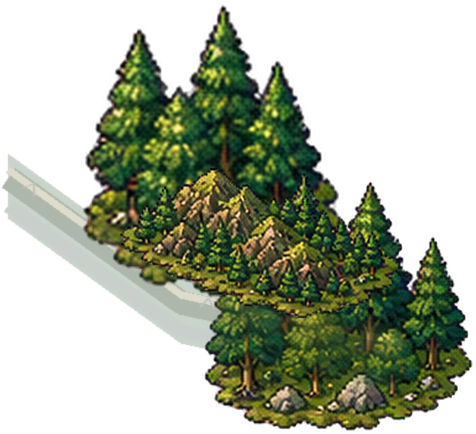
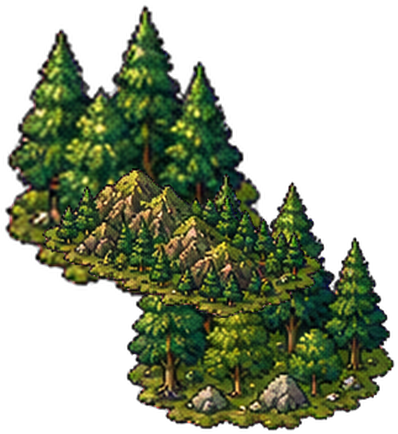
Disable noisy land detail patches

diff --git a/map_pipeline/compose_map.py b/map_pipeline/compose_map.py
@@ -40,6 +40,7 @@ NAMED_WATER_SHALLOW = (71, 126, 129, 58)
 NAMED_WATER_SHORE = (66, 78, 47, 34)
 NAMED_WATER_OUTLINE = (39, 72, 72, 92)
 NAMED_WATER_HIGHLIGHT = (139, 184, 181, 54)
+MAJOR_NAMED_WATER_BODY_IDS = {"bodensee", "mueritz", "chiemsee"}
 FOREST_SPRITE_CACHE = {}
 GLYPH_CACHE = {}
 FONT_CACHE = {}
@@ -48,17 +49,26 @@ FOREST_MASS_MIN_WIDTH = 170
 FOREST_CLUSTER_MIN_SOURCE_WIDTH = 96
 RELIEF_TREE_CLUSTER_MIN_WIDTH = 146
 LAND_DETAIL_VISUAL_SCALE = 0.68
-LAND_DETAIL_ALPHA_SCALE = 0.36
+LAND_DETAIL_ALPHA_SCALE = 0.0
 LAND_DETAIL_TINT_STRENGTH = 0.34
 GROUND_TEXTURE_LON_STEP = 0.74
 GROUND_TEXTURE_LAT_STEP = 0.70
-INTEGRATED_LAND_PATTERN_LON_STEP = 0.92
-INTEGRATED_LAND_PATTERN_LAT_STEP = 0.84
-INTEGRATED_LAND_PATTERN_ALPHA_SCALE = 0.20
-INTEGRATED_LAND_PATTERN_MIN_SIZE = 30
+INTEGRATED_LAND_PATTERN_LON_STEP = 1.10
+INTEGRATED_LAND_PATTERN_LAT_STEP = 1.00
+INTEGRATED_LAND_PATTERN_ALPHA_SCALE = 0.14
+INTEGRATED_LAND_PATTERN_MIN_SIZE = 36
+RELIEF_SOFT_REGION_ALPHA_SCALE = 0.0
+RIDGE_BAND_ALPHA_SCALE = 0.0
 ATLAS_ROUTE_DOT_SPACING_SCALE = 1.75
 ATLAS_ROUTE_DOT_MIN_RADIUS = 4
 DEFAULT_ATLAS_ROUTES_ENABLED = False
+DEFAULT_BASE_LAND_PATCHES_ENABLED = False
+DEFAULT_INTEGRATED_LAND_PATTERN_ENABLED = False
+DEFAULT_LAND_DETAIL_PATCHES_ENABLED = False
+DEFAULT_MARSH_PATCHES_ENABLED = False
+DEFAULT_MINOR_NAMED_WATER_BODIES_ENABLED = False
+DEFAULT_NATURAL_EARTH_LAKES_ENABLED = False
+DEFAULT_RIDGE_BAND_OVERLAYS_ENABLED = False
 EXPORT_MASSIF_SOURCE_LAYERS = True
 MASSIF_SOURCE_MANIFEST = []
 
@@ -1326,35 +1336,36 @@ def _draw_base_land_texture(canvas, land_mask, germany_mask):
     draw = ImageDraw.Draw(layer)
     width, height = canvas.size
 
-    for y in range(0, height, 96 * RENDER_SCALE):
-        for x in range(0, width, 112 * RENDER_SCALE):
-            seed = _stable_hash("land_patch", x // RENDER_SCALE, y // RENDER_SCALE)
-            patch_w = (74 + seed % 58) * RENDER_SCALE
-            patch_h = (30 + (seed >> 6) % 34) * RENDER_SCALE
-            jitter_x = ((seed >> 12) % 43 - 21) * RENDER_SCALE
-            jitter_y = ((seed >> 18) % 37 - 18) * RENDER_SCALE
-            if seed % 4 == 0:
-                color = (126, 142, 73, 12)
-            elif seed % 4 == 1:
-                color = (174, 160, 90, 8)
-            elif seed % 4 == 2:
-                color = (82, 123, 66, 9)
-            else:
-                color = (105, 93, 55, 7)
-            draw.ellipse(
-                (
-                    x + jitter_x - patch_w // 2,
-                    y + jitter_y - patch_h // 2,
-                    x + jitter_x + patch_w // 2,
-                    y + jitter_y + patch_h // 2,
-                ),
-                fill=color,
-            )
+    if DEFAULT_BASE_LAND_PATCHES_ENABLED:
+        for y in range(0, height, 96 * RENDER_SCALE):
+            for x in range(0, width, 112 * RENDER_SCALE):
+                seed = _stable_hash("land_patch", x // RENDER_SCALE, y // RENDER_SCALE)
+                patch_w = (74 + seed % 58) * RENDER_SCALE
+                patch_h = (30 + (seed >> 6) % 34) * RENDER_SCALE
+                jitter_x = ((seed >> 12) % 43 - 21) * RENDER_SCALE
+                jitter_y = ((seed >> 18) % 37 - 18) * RENDER_SCALE
+                if seed % 4 == 0:
+                    color = (126, 142, 73, 8)
+                elif seed % 4 == 1:
+                    color = (174, 160, 90, 5)
+                elif seed % 4 == 2:
+                    color = (82, 123, 66, 6)
+                else:
+                    color = (105, 93, 55, 4)
+                draw.ellipse(
+                    (
+                        x + jitter_x - patch_w // 2,
+                        y + jitter_y - patch_h // 2,
+                        x + jitter_x + patch_w // 2,
+                        y + jitter_y + patch_h // 2,
+                    ),
+                    fill=color,
+                )
 
     for y in range(0, height, 42 * RENDER_SCALE):
         for x in range(0, width, 46 * RENDER_SCALE):
             seed = _stable_hash("land_texture", x // RENDER_SCALE, y // RENDER_SCALE)
-            alpha = 4 + seed % 5
+            alpha = 3 + seed % 3
             if seed % 5 == 0:
                 color = (219, 203, 132, alpha)
             elif seed % 5 in (1, 2):
@@ -1400,7 +1411,7 @@ def _draw_base_land_texture(canvas, land_mask, germany_mask):
                 (x, y, x + 30 * RENDER_SCALE, y + 11 * RENDER_SCALE),
                 195,
                 340,
-                fill=(73, 91, 52, 20),
+                fill=(73, 91, 52, 12),
                 width=max(1, RENDER_SCALE),
             )
 
@@ -1507,10 +1518,15 @@ def _draw_named_water_bodies(canvas, proj, germany_mask):
 
 
 def _draw_named_water_body(draw, proj, water_body):
+    if (
+        not DEFAULT_MINOR_NAMED_WATER_BODIES_ENABLED
+        and water_body.get("id") not in MAJOR_NAMED_WATER_BODY_IDS
+    ):
+        return
     pts = _smooth_closed_points([_project_point(proj, lon, lat) for lon, lat in water_body["points"]])
     if len(pts) < 3:
         return
-    alpha_scale = 0.58 if water_body.get("subtle", False) else 1.0
+    alpha_scale = _named_water_alpha_scale(water_body)
     shore = _scale_alpha(NAMED_WATER_SHORE, alpha_scale)
     fill = _scale_alpha(NAMED_WATER_FILL, alpha_scale)
     shallow = _scale_alpha(NAMED_WATER_SHALLOW, alpha_scale)
@@ -1543,6 +1559,14 @@ def _draw_named_water_body(draw, proj, water_body):
             fill=highlight,
             width=max(1, RENDER_SCALE),
         )
+
+
+def _named_water_alpha_scale(water_body):
+    if water_body.get("id") in MAJOR_NAMED_WATER_BODY_IDS:
+        return 1.0
+    if water_body.get("subtle", False):
+        return 0.12
+    return 0.18
 
 
 def _scale_alpha(color, scale):
@@ -1596,7 +1620,7 @@ def _draw_terrain(canvas, proj, land_mask):
             canvas,
             land_mask,
             [_project_point(proj, lon, lat) for lon, lat in region["points"]],
-            region["fill"],
+            _scale_alpha(region["fill"], RELIEF_SOFT_REGION_ALPHA_SCALE),
             blur=region["blur"],
         )
 
@@ -1610,12 +1634,13 @@ def _draw_terrain(canvas, proj, land_mask):
     if BAKED_TOWN_DETAILS_ENABLED:
         for lon, lat, size in BAKED_TOWN_DETAILS:
             _draw_town(draw, proj, lon, lat, size)
-    for lon, lat, size in [
-        (8.7, 53.4, 38), (11.6, 53.8, 34), (13.0, 54.0, 30),
-        (12.3, 53.3, 34), (9.8, 54.1, 28), (14.1, 52.0, 30),
-        (13.8, 51.85, 28),
-    ]:
-        _draw_marsh_patch(draw, proj, lon, lat, size)
+    if DEFAULT_MARSH_PATCHES_ENABLED:
+        for lon, lat, size in [
+            (8.7, 53.4, 38), (11.6, 53.8, 34), (13.0, 54.0, 30),
+            (12.3, 53.3, 34), (9.8, 54.1, 28), (14.1, 52.0, 30),
+            (13.8, 51.85, 28),
+        ]:
+            _draw_marsh_patch(draw, proj, lon, lat, size)
 
     canvas.alpha_composite(decor)
 
@@ -1726,14 +1751,14 @@ def _draw_ground_texture(canvas, proj, germany_mask, germany_geom):
                 x, y = _project_point(proj, point_lon, point_lat)
                 kind = seed % 9
                 if kind in (0, 1, 2):
-                    color = (76, 112, 62, 32) if point_lat < 52.0 else (91, 111, 66, 26)
-                    _draw_tuft(draw, x, y, 22 + seed % 11, color)
+                    color = (76, 112, 62, 22) if point_lat < 52.0 else (91, 111, 66, 18)
+                    _draw_tuft(draw, x, y, 26 + seed % 12, color)
                 elif kind in (3, 4, 5) and point_lat < 51.8:
-                    _draw_hill_mark(draw, x, y, 30 + seed % 15, (113, 100, 73, 30))
+                    _draw_hill_mark(draw, x, y, 34 + seed % 16, (113, 100, 73, 20))
                 elif kind == 6:
-                    _draw_hill_mark(draw, x, y, 26 + seed % 10, (70, 103, 77, 22))
+                    _draw_hill_mark(draw, x, y, 30 + seed % 11, (70, 103, 77, 14))
                 else:
-                    _draw_tuft(draw, x, y, 21 + seed % 9, (87, 110, 68, 20))
+                    _draw_tuft(draw, x, y, 25 + seed % 10, (87, 110, 68, 14))
             lat += GROUND_TEXTURE_LAT_STEP
             lat_index += 1
         lon += GROUND_TEXTURE_LON_STEP
@@ -1784,10 +1809,10 @@ def _draw_integrated_land_pattern(canvas, proj, germany_mask, germany_geom):
 def _draw_land_pattern_mark(draw, x, y, size, kind, seed):
     s = size * RENDER_SCALE
     line_width = max(1, RENDER_SCALE)
-    warm_grass = (88, 112, 63, 30)
-    dry_grass = (150, 136, 78, 22)
-    earth = (104, 91, 57, 22)
-    shadow_green = (61, 93, 55, 22)
+    warm_grass = (88, 112, 63, 22)
+    dry_grass = (150, 136, 78, 14)
+    earth = (104, 91, 57, 14)
+    shadow_green = (61, 93, 55, 14)
 
     if kind in (0, 1, 2):
         color = warm_grass if kind != 2 else shadow_green
@@ -1817,14 +1842,14 @@ def _draw_land_pattern_mark(draw, x, y, size, kind, seed):
                 (x - s // 2, y - s // 4, x + s // 2, y + s // 3),
                 205,
                 335,
-                fill=(76, 103, 61, 16),
+                fill=(76, 103, 61, 10),
                 width=line_width,
             )
     elif kind in (8, 9):
-        color = (92, 96, 64, 18)
+        color = (92, 96, 64, 12)
         draw.arc((x - s, y - s // 3, x + s, y + s // 2), 205, 335, fill=color, width=line_width)
     else:
-        color = (72, 105, 60, 20)
+        color = (72, 105, 60, 12)
         draw.line((x, y - s // 2, x - s // 2, y + s // 2), fill=color, width=line_width)
         draw.line((x, y - s // 2, x + s // 2, y + s // 2), fill=color, width=line_width)
 
@@ -1934,6 +1959,8 @@ def _relief_tree_cluster_width(radius):
 
 
 def _draw_alpine_ridge_band(canvas, proj, ridge_band):
+    if not DEFAULT_RIDGE_BAND_OVERLAYS_ENABLED:
+        return
     points = [_project_point(proj, lon, lat) for lon, lat in ridge_band["points"]]
     if len(points) < 2:
         return
@@ -1999,6 +2026,9 @@ def _draw_alpine_ridge_band(canvas, proj, ridge_band):
             draw.line([left, peak, right], fill=mark_color, width=max(1, RENDER_SCALE), joint="curve")
 
     ridge_layer = ridge_layer.filter(ImageFilter.GaussianBlur(0.30 * RENDER_SCALE))
+    alpha = ridge_layer.getchannel("A")
+    alpha = alpha.point(lambda value: int(value * RIDGE_BAND_ALPHA_SCALE))
+    ridge_layer.putalpha(alpha)
     canvas.alpha_composite(ridge_layer)
 
 
@@ -2614,10 +2644,13 @@ def main():
     _draw_terrain(canvas, proj, land_mask)
     _draw_neighbor_ground_texture(canvas, proj, neighbor_mask)
     _draw_ground_texture(canvas, proj, germany_mask, germany)
-    _draw_integrated_land_pattern(canvas, proj, germany_mask, germany)
-    _draw_lakes(canvas, proj, germany_mask)
+    if DEFAULT_INTEGRATED_LAND_PATTERN_ENABLED:
+        _draw_integrated_land_pattern(canvas, proj, germany_mask, germany)
+    if DEFAULT_NATURAL_EARTH_LAKES_ENABLED:
+        _draw_lakes(canvas, proj, germany_mask)
     _draw_named_water_bodies(canvas, proj, germany_mask)
-    _draw_atlas_land_detail_patches(canvas, proj, germany_mask)
+    if DEFAULT_LAND_DETAIL_PATCHES_ENABLED:
+        _draw_atlas_land_detail_patches(canvas, proj, germany_mask)
     _draw_atlas_forest_masses(canvas, proj, land_mask)
     if DEFAULT_ATLAS_ROUTES_ENABLED:
         _draw_atlas_routes(canvas, proj, germany_mask)

diff --git a/tests/test_map_panel_contract.py b/tests/test_map_panel_contract.py
@@ -680,16 +680,25 @@ class MapPanelContractTest(unittest.TestCase):
             "FOREST_CLUSTER_MIN_SOURCE_WIDTH = 96",
             "RELIEF_TREE_CLUSTER_MIN_WIDTH = 146",
             "LAND_DETAIL_VISUAL_SCALE = 0.68",
-            "LAND_DETAIL_ALPHA_SCALE = 0.36",
+            "LAND_DETAIL_ALPHA_SCALE = 0.0",
             "LAND_DETAIL_TINT_STRENGTH = 0.34",
             "GROUND_TEXTURE_LON_STEP = 0.74",
             "GROUND_TEXTURE_LAT_STEP = 0.70",
-            "INTEGRATED_LAND_PATTERN_LON_STEP = 0.92",
-            "INTEGRATED_LAND_PATTERN_LAT_STEP = 0.84",
-            "INTEGRATED_LAND_PATTERN_ALPHA_SCALE = 0.20",
-            "INTEGRATED_LAND_PATTERN_MIN_SIZE = 30",
+            "INTEGRATED_LAND_PATTERN_LON_STEP = 1.10",
+            "INTEGRATED_LAND_PATTERN_LAT_STEP = 1.00",
+            "INTEGRATED_LAND_PATTERN_ALPHA_SCALE = 0.14",
+            "INTEGRATED_LAND_PATTERN_MIN_SIZE = 36",
+            "RELIEF_SOFT_REGION_ALPHA_SCALE = 0.0",
+            "RIDGE_BAND_ALPHA_SCALE = 0.0",
             "ATLAS_ROUTE_DOT_SPACING_SCALE = 1.75",
             "ATLAS_ROUTE_DOT_MIN_RADIUS = 4",
+            "DEFAULT_BASE_LAND_PATCHES_ENABLED = False",
+            "DEFAULT_INTEGRATED_LAND_PATTERN_ENABLED = False",
+            "DEFAULT_LAND_DETAIL_PATCHES_ENABLED = False",
+            "DEFAULT_MARSH_PATCHES_ENABLED = False",
+            "DEFAULT_MINOR_NAMED_WATER_BODIES_ENABLED = False",
+            "DEFAULT_NATURAL_EARTH_LAKES_ENABLED = False",
+            "DEFAULT_RIDGE_BAND_OVERLAYS_ENABLED = False",
             '"atlas_forest_pine_dense"',
             '"atlas_forest_mixed_large"',
             '"atlas_forest_rocky_pine"',
@@ -715,8 +724,13 @@ class MapPanelContractTest(unittest.TestCase):
             '"integrated_land_pattern"',
             "def _draw_land_pattern_mark(draw, x, y, size, kind, seed):",
             "def _relief_tree_cluster_width(radius):",
-            "_draw_integrated_land_pattern(canvas, proj, germany_mask, germany)",
+            "if not DEFAULT_RIDGE_BAND_OVERLAYS_ENABLED:",
+            "if DEFAULT_INTEGRATED_LAND_PATTERN_ENABLED:",
+            "if DEFAULT_NATURAL_EARTH_LAKES_ENABLED:",
+            "if DEFAULT_BASE_LAND_PATCHES_ENABLED:",
+            "if DEFAULT_LAND_DETAIL_PATCHES_ENABLED:",
             "_draw_atlas_land_detail_patches(canvas, proj, germany_mask)",
+            "if DEFAULT_MARSH_PATCHES_ENABLED:",
             "_draw_atlas_forest_masses(canvas, proj, land_mask)",
             "def _draw_atlas_details(canvas, proj):",
             "for detail in ATLAS_DETAILS:",
@@ -738,6 +752,7 @@ class MapPanelContractTest(unittest.TestCase):
             "NAMED_WATER_BODIES = [",
             "NAMED_WATER_FILL = (47, 98, 111, 118)",
             "NAMED_WATER_SHORE = (66, 78, 47, 34)",
+            'MAJOR_NAMED_WATER_BODY_IDS = {"bodensee", "mueritz", "chiemsee"}',
             '"id": "mueritz"',
             '"id": "bodensee"',
             '"id": "chiemsee"',
@@ -745,6 +760,7 @@ class MapPanelContractTest(unittest.TestCase):
             '"id": "wannsee_havel"',
             '"subtle": True',
             "def _draw_named_water_body(draw, proj, water_body):",
+            "def _named_water_alpha_scale(water_body):",
             "def _scale_alpha(color, scale):",
             "def _smooth_closed_points(points, subdivisions=6):",
             "for water_body in NAMED_WATER_BODIES:",

diff --git a/tests/test_map_geography_audit.py b/tests/test_map_geography_audit.py
@@ -160,6 +160,13 @@ class MapGeographyAuditTest(unittest.TestCase):
             ATLAS_ROUTE_DOT_MIN_RADIUS,
             ATLAS_ROUTE_DOT_SPACING_SCALE,
             DEFAULT_ATLAS_ROUTES_ENABLED,
+            DEFAULT_BASE_LAND_PATCHES_ENABLED,
+            DEFAULT_INTEGRATED_LAND_PATTERN_ENABLED,
+            DEFAULT_LAND_DETAIL_PATCHES_ENABLED,
+            DEFAULT_MARSH_PATCHES_ENABLED,
+            DEFAULT_MINOR_NAMED_WATER_BODIES_ENABLED,
+            DEFAULT_NATURAL_EARTH_LAKES_ENABLED,
+            DEFAULT_RIDGE_BAND_OVERLAYS_ENABLED,
             DEFAULT_ATLAS_DETAIL_KINDS,
             FOREST_CLUSTER_MIN_SOURCE_WIDTH,
             FOREST_MASS_MIN_WIDTH,
@@ -171,9 +178,13 @@ class MapGeographyAuditTest(unittest.TestCase):
             INTEGRATED_LAND_PATTERN_LAT_STEP,
             INTEGRATED_LAND_PATTERN_LON_STEP,
             INTEGRATED_LAND_PATTERN_MIN_SIZE,
+            MAJOR_NAMED_WATER_BODY_IDS,
             MIN_ATLAS_DETAIL_WIDTH,
             RELIEF_REGIONS,
+            RELIEF_SOFT_REGION_ALPHA_SCALE,
             RELIEF_TREE_CLUSTER_MIN_WIDTH,
+            RIDGE_BAND_ALPHA_SCALE,
+            _named_water_alpha_scale,
             _relief_tree_cluster_width,
         )
 
@@ -188,12 +199,24 @@ class MapGeographyAuditTest(unittest.TestCase):
         self.assertGreaterEqual(GROUND_TEXTURE_LAT_STEP, 0.56)
         self.assertGreaterEqual(GROUND_TEXTURE_LON_STEP, 0.70)
         self.assertGreaterEqual(GROUND_TEXTURE_LAT_STEP, 0.66)
-        self.assertGreaterEqual(INTEGRATED_LAND_PATTERN_LON_STEP, 0.90)
-        self.assertGreaterEqual(INTEGRATED_LAND_PATTERN_LAT_STEP, 0.80)
-        self.assertLessEqual(INTEGRATED_LAND_PATTERN_ALPHA_SCALE, 0.22)
-        self.assertGreaterEqual(INTEGRATED_LAND_PATTERN_MIN_SIZE, 30)
+        self.assertFalse(DEFAULT_BASE_LAND_PATCHES_ENABLED)
+        self.assertFalse(DEFAULT_INTEGRATED_LAND_PATTERN_ENABLED)
+        self.assertFalse(DEFAULT_LAND_DETAIL_PATCHES_ENABLED)
+        self.assertFalse(DEFAULT_MARSH_PATCHES_ENABLED)
+        self.assertFalse(DEFAULT_MINOR_NAMED_WATER_BODIES_ENABLED)
+        self.assertFalse(DEFAULT_NATURAL_EARTH_LAKES_ENABLED)
+        self.assertFalse(DEFAULT_RIDGE_BAND_OVERLAYS_ENABLED)
+        self.assertGreaterEqual(INTEGRATED_LAND_PATTERN_LON_STEP, 1.00)
+        self.assertGreaterEqual(INTEGRATED_LAND_PATTERN_LAT_STEP, 0.94)
+        self.assertLessEqual(INTEGRATED_LAND_PATTERN_ALPHA_SCALE, 0.16)
+        self.assertGreaterEqual(INTEGRATED_LAND_PATTERN_MIN_SIZE, 36)
+        self.assertLessEqual(RELIEF_SOFT_REGION_ALPHA_SCALE, 0.0)
+        self.assertLessEqual(RIDGE_BAND_ALPHA_SCALE, 0.0)
         self.assertGreaterEqual(ATLAS_ROUTE_DOT_SPACING_SCALE, 1.50)
         self.assertGreaterEqual(ATLAS_ROUTE_DOT_MIN_RADIUS, 4)
+        self.assertEqual({"bodensee", "mueritz", "chiemsee"}, MAJOR_NAMED_WATER_BODY_IDS)
+        self.assertLessEqual(_named_water_alpha_scale({"id": "steinhuder_meer"}), 0.34)
+        self.assertLessEqual(_named_water_alpha_scale({"id": "mueggelsee", "subtle": True}), 0.24)
 
         for mass in ATLAS_FOREST_MASSES:
             for glyph_name, _lon, _lat, width in mass["clusters"]:
